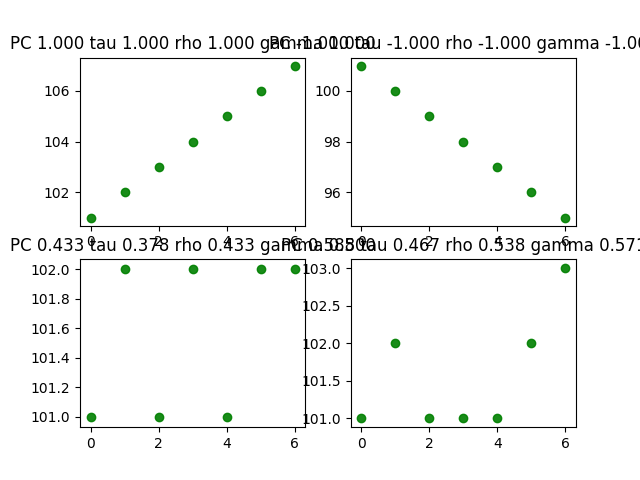
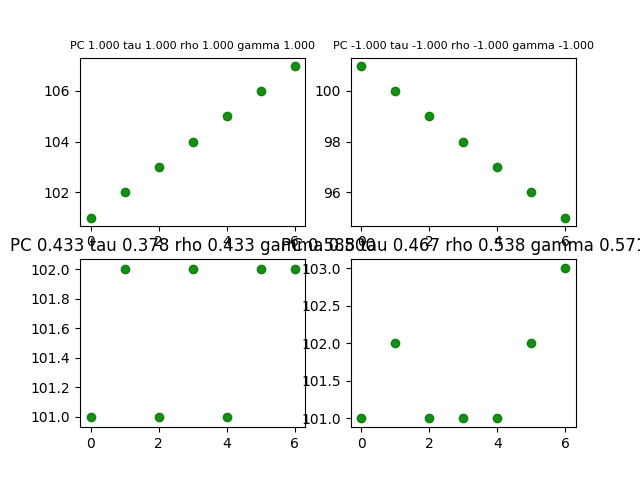
reduced font size

Changed region(s): [[0.0, 0.0625, 1.0, 0.125]]

diff --git a/correlationexamples-01.py b/correlationexamples-01.py
@@ -56,7 +56,7 @@ plt.scatter(x,y1,s=None, marker='o',color='g',edgecolors='g',alpha=0.9,label="Ja
 # plt.ylabel('Sample y Axis')  
 # plt.legend(loc=2)
 # plt.grid(color='black', linestyle='-', linewidth=0.5)
-plt.title('PC '+ "{:.3f}".format(pc[0]) + ' tau ' + "{:.3f}".format(tau[0]) + ' rho ' + "{:.3f}".format(rho[0])+ ' gamma ' + "{:.3f}".format(gamma))
+plt.title('PC '+ "{:.3f}".format(pc[0]) + ' tau ' + "{:.3f}".format(tau[0]) + ' rho ' + "{:.3f}".format(rho[0])+ ' gamma ' + "{:.3f}".format(gamma), fontsize=8)
 
 
 pc = stats.pearsonr(x,y2)
@@ -69,7 +69,7 @@ plt.scatter(x,y2,s=None, marker='o',color='g',edgecolors='g',alpha=0.9,label="Ja
 # plt.ylabel('Sample y Axis')  
 # plt.legend(loc=2)
 # plt.grid(color='black', linestyle='-', linewidth=0.5)
-plt.title('PC '+ "{:.3f}".format(pc[0]) + ' tau ' + "{:.3f}".format(tau[0]) + ' rho ' + "{:.3f}".format(rho[0])+ ' gamma ' + "{:.3f}".format(gamma))
+plt.title('PC '+ "{:.3f}".format(pc[0]) + ' tau ' + "{:.3f}".format(tau[0]) + ' rho ' + "{:.3f}".format(rho[0])+ ' gamma ' + "{:.3f}".format(gamma), fontsize=8)
 
 
 pc = stats.pearsonr(x,y3)
@@ -82,7 +82,7 @@ plt.scatter(x,y3,s=None, marker='o',color='g',edgecolors='g',alpha=0.9,label="Ja
 # plt.ylabel('Sample y Axis')  
 # plt.legend(loc=2)
 # plt.grid(color='black', linestyle='-', linewidth=0.5)
-plt.title('PC '+ "{:.3f}".format(pc[0]) + ' tau ' + "{:.3f}".format(tau[0]) + ' rho ' + "{:.3f}".format(rho[0])+ ' gamma ' + "{:.3f}".format(gamma))
+plt.title('PC '+ "{:.3f}".format(pc[0]) + ' tau ' + "{:.3f}".format(tau[0]) + ' rho ' + "{:.3f}".format(rho[0])+ ' gamma ' + "{:.3f}".format(gamma), fontsize=8)
 
 pc = stats.pearsonr(x,y4)
 tau = stats.kendalltau(x,y4)
@@ -94,7 +94,7 @@ plt.scatter(x,y4,s=None, marker='o',color='g',edgecolors='g',alpha=0.9,label="Ja
 # plt.ylabel('Sample y Axis')  
 # plt.legend(loc=2)
 # plt.grid(color='black', linestyle='-', linewidth=0.5)
-plt.title('PC '+ "{:.3f}".format(pc[0]) + ' tau ' + "{:.3f}".format(tau[0]) + ' rho ' + "{:.3f}".format(rho[0])+ ' gamma ' + "{:.3f}".format(gamma))
+plt.title('PC '+ "{:.3f}".format(pc[0]) + ' tau ' + "{:.3f}".format(tau[0]) + ' rho ' + "{:.3f}".format(rho[0])+ ' gamma ' + "{:.3f}".format(gamma), fontsize=8)
 
 # Saving image
 plt.savefig('correlationexamples-01.png')
